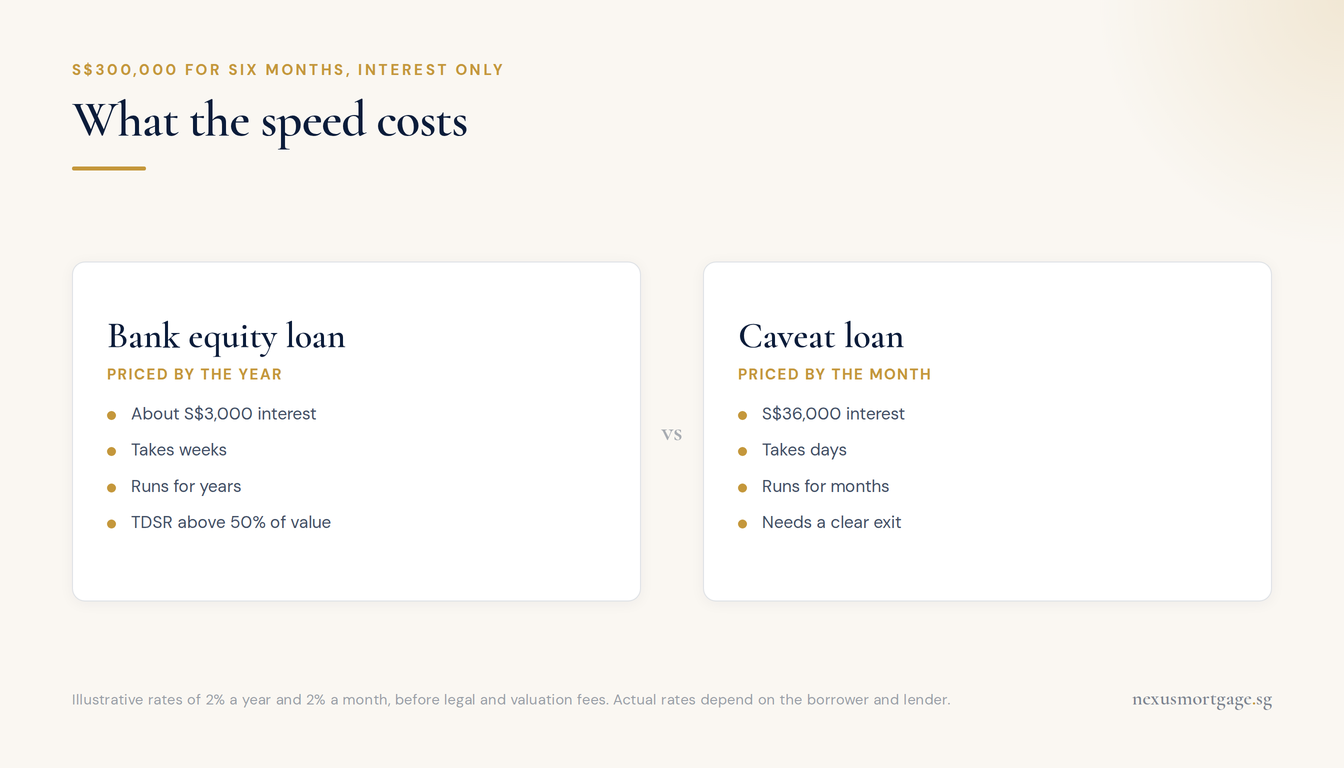
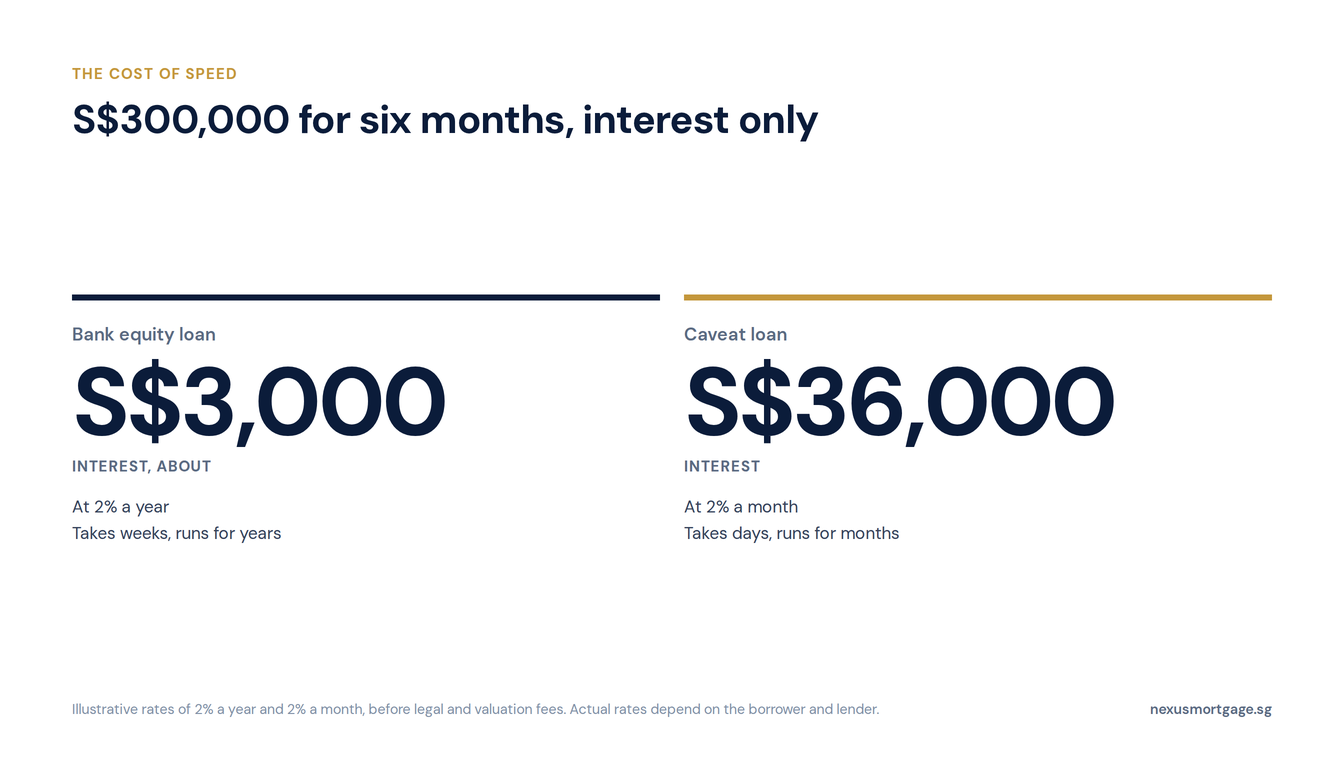
infographics: add style B, use it for the SME, caveat and personal loan articles
Dan rejected the gradient/chip house style as generic. Style B: flat
navy and gold blocks, strict grid, one big number, DM Sans only, no
decoration without data. Opt in per spec with "style": "b"; hero,
stat, compare and math have B templates. Existing images are unchanged.

diff --git a/blog/sme-business-loan-singapore-2026/index.html b/blog/sme-business-loan-singapore-2026/index.html
@@ -285,7 +285,7 @@
   <h1>SME Business Loans in Singapore: Rates, the EFS Scheme, and How Much You Can Borrow</h1>
   <p class="article-byline" style="margin:.5rem 0 1.4rem;font-size:.8rem;color:rgba(232,227,218,.55);font-family:'DM Sans',system-ui,sans-serif;letter-spacing:.01em;">By <a href="/about/" style="color:#c4973b;font-weight:600;text-decoration:none;">Dan Ler</a>, Mortgage Advisor</p>
 
-  <img src="../blog-images/sme-loan-hero.webp" width="1344" height="768" alt="SME business loans: what 0.35% a month really costs" class="hero-img" fetchpriority="high">
+  <img src="../blog-images/sme-loan-hero.webp" width="1344" height="768" alt="SME business loans: what a monthly rate really costs" class="hero-img" fetchpriority="high">
 
 
   <div class="short-answer">
@@ -350,7 +350,7 @@
   <p class="pullquote">&ldquo;The 70% risk share runs to 31 March 2027. If you were going to need working capital next year anyway, this is the window where lenders are most willing to say yes.&rdquo;</p>
 
   <h2 id="pricing">What a Monthly Rate Really Costs</h2>
-  <img src="../blog-images/sme-loan-flat-vs-eir.webp" width="1344" height="768" alt="Table converting SME loan flat monthly rates of 0.35%, 0.75%, 1% and 1.5% into instalments, total interest and effective interest rates on S$100,000 over three years" class="blog-img" loading="lazy">
+  <img src="../blog-images/sme-loan-flat-vs-eir.webp" width="1344" height="768" alt="SME loan flat monthly rates of 0.35%, 0.75%, 1% and 1.5% shown as effective rates of 8.2%, 17.5%, 23.4% and 35.3% on S$100,000 over three years" class="blog-img" loading="lazy">
   <p class="img-caption">Compare offers on the EIR including fees, never on the monthly headline rate.</p>
 
 

diff --git a/blog/caveat-loan-vs-equity-loan-singapore/index.html b/blog/caveat-loan-vs-equity-loan-singapore/index.html
@@ -373,7 +373,7 @@
   <p>Taking the full S$500,000 brings total borrowing to 75% of the value, above the 50% line, so the bank will apply TDSR and the owner's income must support the whole mortgage at the stress-test rate. A caveat lender would look at the same S$1,000,000 of equity after the bank and CPF, apply its own cap, and decide quickly.</p>
 
   <h2 id="cost">What the Speed Costs</h2>
-  <img src="../blog-images/caveat-vs-equity-cost.webp" width="1344" height="768" alt="Comparison of borrowing S$300,000 for six months: about S$3,000 interest on a bank equity loan at 2% a year versus S$36,000 on a caveat loan at 2% a month" class="blog-img" loading="lazy">
+  <img src="../blog-images/caveat-vs-equity-cost.webp" width="1344" height="768" alt="Borrowing S$300,000 for six months: about S$3,000 interest on a bank equity loan at 2% a year versus S$36,000 on a caveat loan at 2% a month" class="blog-img" loading="lazy">
   <p class="img-caption">A monthly rate costs about twelve times the same number charged yearly.</p>
 
 

diff --git a/scripts/build-article-infographics.py b/scripts/build-article-infographics.py
@@ -331,7 +331,137 @@ TEMPLATES = {
 }
 
 
+# ---------------------------------------------------------------------------
+# Style B (adopted 22 Oct 2026). Dan rejected the gradient/chip house style as
+# generic; B is flat navy and gold blocks, a strict grid, one big number, DM
+# Sans only, and nothing decorative that carries no data. A spec opts in with
+# "style": "b"; the type names stay the same so the insert scripts still place
+# heroes and inline cards correctly.
+# ---------------------------------------------------------------------------
+B_CSS = brand("""
+*,*::before,*::after{box-sizing:border-box;margin:0;padding:0}
+@font-face{font-family:'DM Sans';src:url('/fonts/dm-sans.woff2') format('woff2');font-weight:400 700;font-display:block}
+html,body{width:1344px;height:768px;overflow:hidden}
+body{background:#fff;color:$NAVY;font-family:'DM Sans',system-ui,sans-serif;-webkit-font-smoothing:antialiased}
+.pg{width:1344px;height:768px;padding:64px 72px 48px;display:flex;flex-direction:column}
+.k{font-size:15px;font-weight:700;letter-spacing:.08em;text-transform:uppercase;color:$GOLD;margin-bottom:14px}
+h2{font-size:40px;font-weight:700;letter-spacing:-.02em;line-height:1.1;max-width:1150px}
+.sub{font-size:18px;color:#5a6a82;margin-top:10px}
+.bd{flex:1;display:flex;flex-direction:column;justify-content:center}
+.ft{display:flex;justify-content:space-between;align-items:flex-end;gap:40px;font-size:14px;color:#8090a6;line-height:1.45}
+.ft .m{white-space:nowrap;font-weight:600;color:#5a6a82}
+""")
+
+
+def _b_page(spec, inner, extra_css=""):
+    k = f'<div class="k">{_shell(spec["kicker"])}</div>' if spec.get("kicker") else ""
+    sub = f'<div class="sub">{_shell(spec["sub"])}</div>' if spec.get("sub") else ""
+    src = _shell(spec.get("source", ""))
+    return (f"<!DOCTYPE html><html><head><meta charset='utf-8'><style>{B_CSS}{brand(extra_css)}</style></head>"
+            f'<body><div class="pg">{k}<h2>{_shell(spec["title"])}</h2>{sub}'
+            f'<div class="bd">{inner}</div><div class="ft"><span>{src}</span><span class="m">nexusmortgage.sg</span></div>'
+            f"</div></body></html>")
+
+
+def b_hero(s):
+    """Navy title panel left, gold panel with the one number that matters right."""
+    css = brand("""
+body{display:grid;grid-template-columns:760px 584px}
+.l{background:$NAVY;color:#fff;padding:72px 64px;display:flex;flex-direction:column;justify-content:space-between}
+.hk{font-size:15px;font-weight:700;letter-spacing:.08em;text-transform:uppercase;color:$GOLD}
+.ht{font-size:52px;font-weight:700;line-height:1.08;letter-spacing:-.02em}
+.by{font-size:16px;color:#9fb0c8}
+.r{background:$GOLD;color:$NAVY;padding:72px 56px;display:flex;flex-direction:column;justify-content:center}
+.n{font-weight:700;letter-spacing:-.05em;line-height:.9}
+.nl{font-size:22px;font-weight:600;margin-top:24px;line-height:1.35;max-width:460px}
+""")
+    num = str(s["num"])
+    size = 210 if len(num) <= 3 else 170 if len(num) <= 5 else 132 if len(num) <= 7 else 104
+    return (f"<!DOCTYPE html><html><head><meta charset='utf-8'><style>{B_CSS}{css}</style></head><body>"
+            f'<div class="l"><div class="hk">{_shell(s.get("kicker", ""))}</div><div class="ht">{_shell(s["title"])}</div>'
+            f'<div class="by">Nexus Mortgage &middot; nexusmortgage.sg</div></div>'
+            f'<div class="r"><div class="n" style="font-size:{size}px">{_shell(num)}</div>'
+            f'<div class="nl">{_shell(s["numlabel"])}</div></div></body></html>')
+
+
+def b_stat(s):
+    """Columns under a heavy top rule, each with one big number. tiles: [{num,label,note?,head?,highlight?}]"""
+    n = len(s["tiles"])
+    big = 96 if n <= 2 else 84 if n <= 4 else 64
+    # Shrink so the longest number fits its column (DM Sans bold digits run ~0.6em wide).
+    col_w = (1200 - 24 * (n - 1)) / n
+    longest = max(len(str(t["num"])) for t in s["tiles"])
+    big = int(min(big, col_w / (0.62 * longest)))
+    css = f"""
+.cols{{display:grid;grid-template-columns:repeat({n},1fr);gap:24px}}
+.c{{border-top:6px solid $NAVY;padding-top:22px}}
+.c.hl{{border-color:$GOLD}}
+.q{{font-size:18px;font-weight:600;color:#5a6a82;min-height:24px}}
+.e{{font-size:{big}px;font-weight:700;letter-spacing:-.04em;margin:8px 0 6px;line-height:1}}
+.el{{font-size:15px;font-weight:700;text-transform:uppercase;letter-spacing:.06em;color:#5a6a82}}
+.d{{font-size:17px;margin-top:18px;line-height:1.55;color:#33415a}}
+"""
+    cells = ""
+    for t in s["tiles"]:
+        hl = " hl" if t.get("highlight") else ""
+        head = f'<div class="q">{_shell(t["head"])}</div>' if t.get("head") else ""
+        note = f'<div class="d">{_shell(t["note"]).replace("|", "<br>")}</div>' if t.get("note") else ""
+        cells += (f'<div class="c{hl}">{head}<div class="e">{_shell(t["num"])}</div>'
+                  f'<div class="el">{_shell(t["label"])}</div>{note}</div>')
+    return _b_page(s, f'<div class="cols">{cells}</div>', css)
+
+
+def b_compare(s):
+    """Plain table: heavy rule under the header, hairlines between rows, bold numbers."""
+    css = """
+table{width:100%;border-collapse:collapse;font-size:25px}
+th{font-size:15px;letter-spacing:.08em;text-transform:uppercase;color:#5a6a82;font-weight:700;text-align:right;
+   padding:0 0 14px 16px;border-bottom:4px solid $NAVY}
+td{padding:24px 0 24px 16px;border-bottom:1px solid #dfe4ec;text-align:right;font-weight:600;font-variant-numeric:tabular-nums}
+th:first-child,td:first-child{text-align:left;padding-left:0}
+td:first-child{font-weight:600;color:#5a6a82}
+tr.hl td{color:$NAVY;font-weight:700}
+tr.hl td:not(:first-child){color:$GOLD}
+"""
+    fs = 25 if len(s["cols"]) <= 4 else 21
+    css += f"table{{font-size:{fs}px;table-layout:fixed}} th,td{{white-space:nowrap}} th:first-child{{width:{26 if len(s['cols']) <= 4 else 18}%}}"
+    head = "".join(f"<th>{_shell(c)}</th>" for c in s["cols"])
+    body = ""
+    for r in s["rows"]:
+        hl = ' class="hl"' if r.get("highlight") else ""
+        body += f'<tr{hl}><td>{_shell(r["label"])}</td>' + "".join(f"<td>{_shell(c)}</td>" for c in r["cells"]) + "</tr>"
+    return _b_page(s, f"<table><tr><th></th>{head}</tr>{body}</table>", css)
+
+
+def b_math(s):
+    """Worked sum: rows with right-aligned values, total in a flat navy bar."""
+    css = """
+.row{display:grid;grid-template-columns:40px 1fr auto;align-items:baseline;padding:14px 0;border-bottom:1px solid #dfe4ec}
+.op{font-size:28px;font-weight:700;color:$GOLD}
+.lb{font-size:22px;font-weight:600}.nt{font-size:16px;color:#5a6a82;margin-top:4px}
+.v{font-size:34px;font-weight:700;letter-spacing:-.02em;font-variant-numeric:tabular-nums}
+.tot{display:flex;justify-content:space-between;align-items:center;background:$NAVY;color:#fff;padding:22px 28px;margin-top:22px}
+.tot .lb{font-size:22px}.tot .nt{color:#9fb0c8}.tot .v{font-size:48px;color:$GOLD}
+"""
+    rows = ""
+    for r in s["rows"]:
+        rows += (f'<div class="row"><div class="op">{_shell(r.get("op", ""))}</div>'
+                 f'<div><div class="lb">{_shell(r["label"])}</div><div class="nt">{_shell(r.get("note", ""))}</div></div>'
+                 f'<div class="v">{_shell(r["value"])}</div></div>')
+    t = s["total"]
+    tot = (f'<div class="tot"><div><div class="lb">{_shell(t["label"])}</div><div class="nt">{_shell(t.get("note", ""))}</div></div>'
+           f'<div class="v">{_shell(t["value"])}</div></div>')
+    return _b_page(s, rows + tot, css)
+
+
+B_TEMPLATES = {"hero": b_hero, "stat": b_stat, "compare": b_compare, "math": b_math}
+
+
 def build_html(spec):
+    if spec.get("style") == "b":
+        if spec["type"] not in B_TEMPLATES:
+            raise SystemExit(f'style b has no "{spec["type"]}" template ({spec["out"]})')
+        return B_TEMPLATES[spec["type"]](spec)
     css, inner = TEMPLATES[spec["type"]](spec)
     if spec["type"] == "hero":
         return (

diff --git a/scripts/articles/sme_business_loan.py b/scripts/articles/sme_business_loan.py
@@ -209,33 +209,27 @@ BODY = r'''
 '''
 
 IMAGES = [
- {'out': 'sme-loan-hero',
-  'type': 'hero',
-  'kicker': 'Nexus Mortgage SG · SME Lending',
-  'title': 'SME business loans: what 0.35% a month really costs',
-  'sub': 'The EFS working capital loan, the 70% government risk share until March 2027, and when borrowing '
-         'against property is the cheaper route.',
-  'chips': ['Up to S$500,000 under EFS', '70% risk share to Mar 2027', '0.35%/mo is about 8% EIR']},
+ {'out': 'sme-loan-hero', 'type': 'hero', 'style': 'b',
+  'kicker': 'SME Lending',
+  'title': 'SME business loans: what a monthly rate really costs',
+  'num': '8%', 'numlabel': 'The real yearly cost of a loan quoted at 0.35% a month'},
 
- {'out': 'sme-loan-flat-vs-eir',
-  'type': 'compare',
+ {'out': 'sme-loan-flat-vs-eir', 'type': 'stat', 'style': 'b',
   'kicker': 'SME loan pricing',
-  'title': 'A monthly flat rate costs nearly double as an EIR',
-  'cols': ['0.35%/mo', '0.75%/mo', '1.00%/mo', '1.50%/mo'],
-  'rows': [{'label': 'Per year, flat', 'cells': ['4.2%', '9.0%', '12.0%', '18.0%']},
-           {'label': 'Monthly instalment', 'cells': ['S$3,128', 'S$3,528', 'S$3,778', 'S$4,278']},
-           {'label': 'Total interest', 'cells': ['S$12,600', 'S$27,000', 'S$36,000', 'S$54,000']},
-           {'label': 'Effective rate (EIR)', 'cells': ['~8.2%', '~17.5%', '~23.4%', '~35.3%']}],
-  'source': 'Illustrative. S$100,000 over 36 months at the flat monthly rates shown, no fees. A 2% processing '
-            'fee lifts the 0.35% EIR to about 9.7%.',
+  'title': 'Quoted monthly, the real rate is nearly double',
+  'sub': 'S$100,000 over three years',
+  'tiles': [{'head': '0.35% a month', 'num': '8.2%', 'label': 'Effective rate', 'note': 'S$3,128 a month|S$12,600 interest', 'highlight': True},
+            {'head': '0.75% a month', 'num': '17.5%', 'label': 'Effective rate', 'note': 'S$3,528 a month|S$27,000 interest'},
+            {'head': '1.00% a month', 'num': '23.4%', 'label': 'Effective rate', 'note': 'S$3,778 a month|S$36,000 interest'},
+            {'head': '1.50% a month', 'num': '35.3%', 'label': 'Effective rate', 'note': 'S$4,278 a month|S$54,000 interest'}],
+  'source': 'Illustrative flat-rate loans, no fees. A 2% processing fee lifts the 0.35% example to about 9.7%.',
   'anchor': 'pricing',
-  'alt': 'Table converting SME loan flat monthly rates of 0.35%, 0.75%, 1% and 1.5% into instalments, total '
-         'interest and effective interest rates on S$100,000 over three years',
+  'alt': 'SME loan flat monthly rates of 0.35%, 0.75%, 1% and 1.5% shown as effective rates of 8.2%, 17.5%, 23.4% '
+         'and 35.3% on S$100,000 over three years',
   'caption': 'Compare offers on the EIR including fees, never on the monthly headline rate.'},
 
- {'out': 'sme-loan-efs-terms',
-  'type': 'stat',
-  'kicker': 'Enterprise Financing Scheme · SME Working Capital Loan',
+ {'out': 'sme-loan-efs-terms', 'type': 'stat', 'style': 'b',
+  'kicker': 'Enterprise Financing Scheme',
   'title': 'The government-backed working capital loan in 2026',
   'tiles': [{'num': 'S$500,000', 'label': 'Maximum per borrower', 'note': 'Repaid over up to 5 years'},
             {'num': '70%', 'label': 'Government risk share', 'note': '1 Sep 2026 to 31 Mar 2027', 'highlight': True},

diff --git a/scripts/articles/personal_loan_rates.py b/scripts/articles/personal_loan_rates.py
@@ -195,22 +195,18 @@ BODY = r'''
 '''
 
 IMAGES = [
- {'out': 'personal-loan-rates-hero',
-  'type': 'hero',
-  'kicker': 'Nexus Mortgage SG · Personal Loans',
+ {'out': 'personal-loan-rates-hero', 'type': 'hero', 'style': 'b',
+  'kicker': 'Personal Loans',
   'title': "Personal loan rates, bank by bank: why 'from 1%' is not your rate",
-  'sub': 'Advertised flat rates and EIRs at the main banks, the fees that change the real cost, and what a '
-         'personal loan does to your next home loan.',
-  'chips': ['From 0.90% to 1.98% flat', 'Compare on the EIR', 'S$500/mo costs ~S$94,700 of home loan']},
+  'num': '5.47%', 'numlabel': "The EIR in DBS's own worked example, against a headline rate of 1.48%"},
 
- {'out': 'personal-loan-rates-table',
-  'type': 'compare',
-  'kicker': 'Advertised personal loan rates · as at 21 Oct 2026',
+ {'out': 'personal-loan-rates-table', 'type': 'compare', 'style': 'b',
+  'kicker': 'Advertised rates · as at 21 Oct 2026',
   'title': 'The lowest rates each bank advertises',
   'cols': ['SC CashOne', 'UOB', 'Trust', 'HSBC', 'DBS', 'OCBC*'],
   'rows': [{'label': 'Flat rate from', 'cells': ['0.90%', '1.00%', '1.00%', '1.30%', '1.48%', '1.98%']},
-           {'label': 'EIR from', 'cells': ['1.75%', '1.93%', '2.28%', '2.50%', '3.22%', '4.19%']},
-           {'label': 'Fee noted', 'cells': ['S$199 a year', 'No processing', '0.88% first year', 'No processing', '1% processing', 'See bank']}],
+           {'label': 'EIR from', 'cells': ['1.75%', '1.93%', '2.28%', '2.50%', '3.22%', '4.19%'], 'highlight': True},
+           {'label': 'Fees', 'cells': ['S$199 a year', 'None', '0.88% year 1', 'None', '1% upfront', 'See bank']}],
   'source': "Best-case advertised rates from the banks' pages and MoneySmart, 21 Oct 2026. Rates are personalised "
             'and change often. *OCBC Cash-on-Instalments, for OCBC card or EasiCredit holders.',
   'anchor': 'rates',
@@ -218,13 +214,12 @@ IMAGES = [
          '1.00%, Trust 1.00%, HSBC 1.30%, DBS 1.48% and OCBC 1.98% flat, with EIRs from 1.75% to 4.19%',
   'caption': 'These are floors. The rate you are offered depends on your income and credit.'},
 
- {'out': 'personal-loan-rates-cost',
-  'type': 'compare',
+ {'out': 'personal-loan-rates-cost', 'type': 'compare', 'style': 'b',
   'kicker': 'S$30,000 over three years',
   'title': 'Close instalments, very different totals',
   'cols': ['1.00%, no fee', '1.48% + 1% fee', '1.99% + 1% fee', '5.50% + 2% fee'],
   'rows': [{'label': 'Monthly instalment', 'cells': ['S$858', 'S$870', 'S$883', 'S$971']},
-           {'label': 'Interest and fees', 'cells': ['S$900', 'S$1,632', 'S$2,091', 'S$5,550']},
+           {'label': 'Interest and fees', 'cells': ['S$900', 'S$1,632', 'S$2,091', 'S$5,550'], 'highlight': True},
            {'label': 'EIR (our calculation)', 'cells': ['~1.95%', '~3.56%', '~4.56%', '~12.23%']}],
   'source': 'Illustrative flat-rate loans of S$30,000 over 36 months. Banks may calculate EIR slightly differently.',
   'anchor': 'cost',

diff --git a/scripts/articles/caveat_vs_equity_loan.py b/scripts/articles/caveat_vs_equity_loan.py
@@ -215,17 +215,13 @@ BODY = r'''
 '''
 
 IMAGES = [
- {'out': 'caveat-vs-equity-hero',
-  'type': 'hero',
-  'kicker': 'Nexus Mortgage SG · Refinancing & Equity',
+ {'out': 'caveat-vs-equity-hero', 'type': 'hero', 'style': 'b',
+  'kicker': 'Refinancing & Equity',
   'title': 'Caveat loan or equity loan: priced by the month, or by the year',
-  'sub': 'Two ways to borrow against property you own: how much each lends, how fast, and when the speed '
-         'is worth paying for.',
-  'chips': ['Bank: weeks, home-loan rates', 'Caveat: days, monthly rates', 'Worked example on S$2M']},
+  'num': '12x', 'numlabel': 'What a rate charged monthly costs against the same rate charged yearly'},
 
- {'out': 'caveat-vs-equity-mwl',
-  'type': 'math',
-  'kicker': 'Bank equity loan · private condo',
+ {'out': 'caveat-vs-equity-mwl', 'type': 'math', 'style': 'b',
+  'kicker': 'Bank equity loan',
   'title': 'How much a bank will lend against a S$2M condo',
   'source': 'Owner with no other housing loan. Total borrowing reaches 75% of value, above 50%, so TDSR applies '
             'and income must support the full mortgage at the stress-test rate.',
@@ -238,18 +234,15 @@ IMAGES = [
          'leaves a S$500,000 maximum bank equity loan',
   'caption': 'The CPF you used comes off the top, and most owners underestimate it.'},
 
- {'out': 'caveat-vs-equity-cost',
-  'type': 'split',
-  'kicker': 'S$300,000 for six months, interest only',
-  'title': 'What the speed costs',
+ {'out': 'caveat-vs-equity-cost', 'type': 'stat', 'style': 'b',
+  'kicker': 'The cost of speed',
+  'title': 'S$300,000 for six months, interest only',
+  'tiles': [{'head': 'Bank equity loan', 'num': 'S$3,000', 'label': 'Interest, about', 'note': 'At 2% a year|Takes weeks, runs for years'},
+            {'head': 'Caveat loan', 'num': 'S$36,000', 'label': 'Interest', 'note': 'At 2% a month|Takes days, runs for months', 'highlight': True}],
   'source': 'Illustrative rates of 2% a year and 2% a month, before legal and valuation fees. Actual rates '
             'depend on the borrower and lender.',
-  'sides': [{'head': 'Bank equity loan', 'sub': 'Priced by the year',
-             'points': ['About S$3,000 interest', 'Takes weeks', 'Runs for years', 'TDSR above 50% of value']},
-            {'head': 'Caveat loan', 'sub': 'Priced by the month',
-             'points': ['S$36,000 interest', 'Takes days', 'Runs for months', 'Needs a clear exit']}],
   'anchor': 'cost',
-  'alt': 'Comparison of borrowing S$300,000 for six months: about S$3,000 interest on a bank equity loan at 2% a '
-         'year versus S$36,000 on a caveat loan at 2% a month',
+  'alt': 'Borrowing S$300,000 for six months: about S$3,000 interest on a bank equity loan at 2% a year versus '
+         'S$36,000 on a caveat loan at 2% a month',
   'caption': 'A monthly rate costs about twelve times the same number charged yearly.'},
 ]
